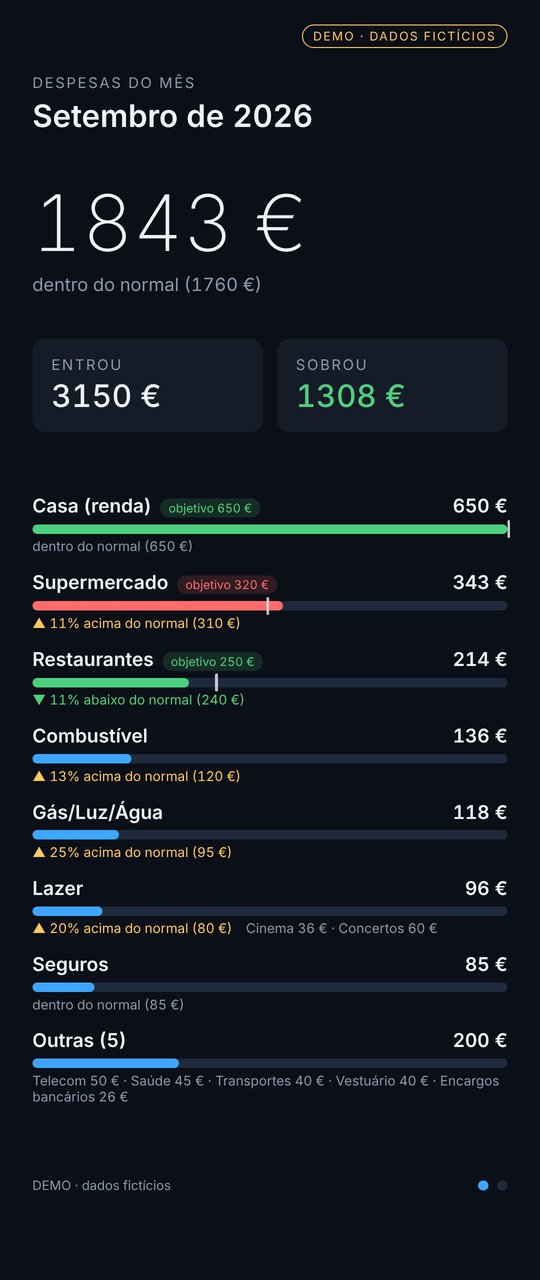
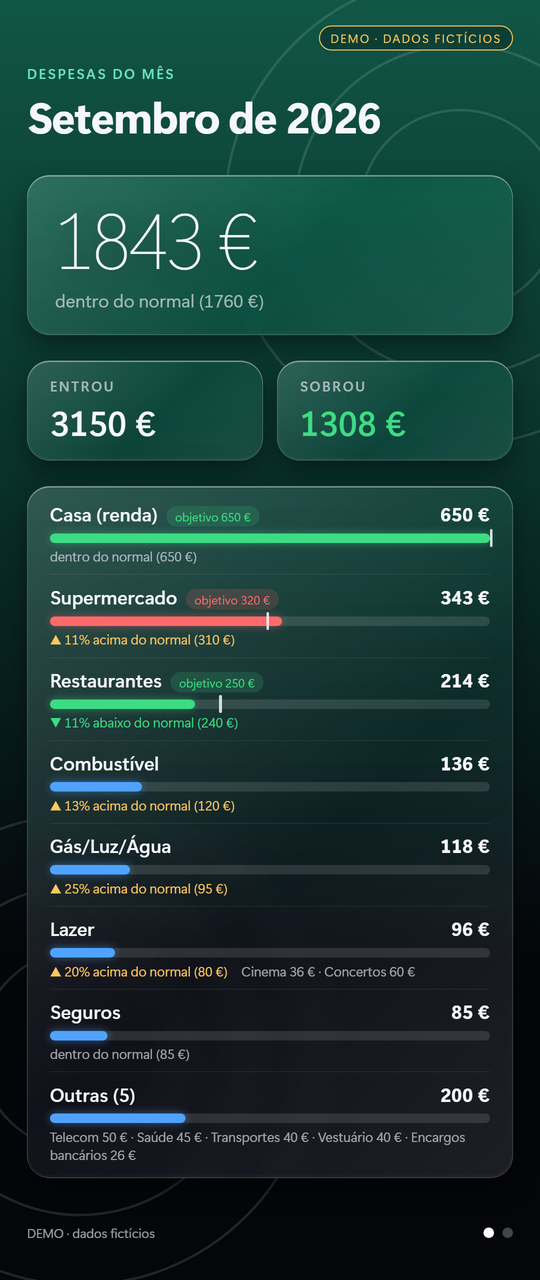
Despesas: aspeto Liquid Glass, como o desporto e o Início (captura da demo atualizada)

diff --git a/hub/web/apps/despesas.html b/hub/web/apps/despesas.html
@@ -4,75 +4,106 @@
 <meta charset="utf-8">
 <title>Despesas</title>
 <style>
-  :root { --fundo: #0b0f17; --painel: #151b27; --linha: #1f2a3d; --texto: #eef2f8; --suave: #8d98ab;
-          --barra: #3ea6ff; --verde: #4cd07d; --vermelho: #ff6b6b; --amarelo: #ffc75f; font-size: 1.6vw; }
+  /* Aspeto "Liquid Glass", o mesmo dos ecrãs do desporto e do Início: os mesmos tokens de vidro, fontes e fundo
+     (copiados do desporto/web/css/base.css). Fica tudo aqui, sem ir buscar ficheiros a outras apps (esta tem código). */
+  :root { --fundo: #05060a; --texto: #f5f7fb; --suave: rgba(235, 235, 245, .66); --linha: rgba(255, 255, 255, .14);
+          --accent: #2bd4a0; --tint: #0b3b33;
+          --barra: #4fa3ff; --verde: #3ddc84; --vermelho: #ff6b6b; --amarelo: #ffc75f;
+          --vidro: linear-gradient(135deg, rgba(255, 255, 255, .18), rgba(255, 255, 255, .05) 55%, rgba(255, 255, 255, .10));
+          --vidro-borda: rgba(255, 255, 255, .26);
+          --vidro-sombra: inset 0 2px 0 rgba(255, 255, 255, .45), inset 0 -2px 8px rgba(255, 255, 255, .06), 0 24px 50px rgba(0, 0, 0, .38);
+          --font: -apple-system, BlinkMacSystemFont, "SF Pro Display", "SF Pro Text", "Segoe UI Variable Display", "Segoe UI", Inter, Roboto, "Helvetica Neue", Arial, sans-serif;
+          font-size: 1.6vw; }
   * { box-sizing: border-box; }
-  html, body { margin: 0; height: 100%; background: var(--fundo); color: var(--texto); overflow: hidden;
-               font-family: "Segoe UI", system-ui, -apple-system, Roboto, sans-serif; font-variant-numeric: tabular-nums; }
-  .cena { position: fixed; inset: 0; padding: 6vh 6vw 9vh; display: none; flex-direction: column; }
-  .cena.ativa { display: flex; animation: entra .4s ease; }
+  html, body { margin: 0; height: 100%; color: var(--texto); overflow: hidden; cursor: none;
+               font-family: var(--font); font-variant-numeric: tabular-nums; }
+  body { background: var(--fundo); }
+  /* Fundo como no desporto: a cor da app no topo a desaparecer para baixo e anéis em traço fino (js/backgrounds.js) */
+  .fundo { position: fixed; inset: 0; width: 100%; height: 100%; z-index: -1; }
+  .vidro, .kpi, .obj, .cats, .grafico-caixa {
+    background: var(--vidro); border: 1.5px solid var(--vidro-borda); border-radius: 2.6rem; box-shadow: var(--vidro-sombra);
+    -webkit-backdrop-filter: blur(30px) saturate(170%); backdrop-filter: blur(30px) saturate(170%); }
+  .cena { position: fixed; inset: 0; padding: 5vh 5vw 8vh; display: none; flex-direction: column; }
+  .cena.ativa { display: flex; animation: entra .6s cubic-bezier(.2, .8, .2, 1); }
   @keyframes entra { from { opacity: 0; transform: translateY(1.5vh); } }
-  .rotulo { font-size: 1.7rem; color: var(--suave); text-transform: uppercase; letter-spacing: .12em; }
-  h1 { font-size: 3.6rem; font-weight: 600; margin: .6rem 0 0; }
+  .rotulo { font-size: 1.6rem; font-weight: 600; color: color-mix(in srgb, var(--accent) 70%, #fff); text-transform: uppercase; letter-spacing: .14em; }
+  h1 { font-size: 5rem; font-weight: 700; letter-spacing: -.12rem; margin: .5rem 0 0; }
 
   /* ---------- cena "o mês" */
-  .heroi { margin: 4vh 0 3.5vh; }
-  .heroi .valor { font-size: 9rem; font-weight: 250; line-height: 1; }
+  .heroi { margin: 2.4vh 0 2vh; padding: 2.6rem 3.2rem; }
+  .heroi .valor { font-size: 9rem; font-weight: 200; line-height: 1; letter-spacing: -.3rem; text-shadow: 0 .6rem 2.4rem rgba(0,0,0,.35); }
   .heroi .comp { font-size: 2.1rem; color: var(--suave); margin-top: 1.4rem; }
-  .kpis { display: grid; grid-template-columns: 1fr 1fr; gap: 1.6rem; margin-bottom: 5vh; }
-  .kpi { background: var(--painel); border-radius: 1.4rem; padding: 2rem 2.2rem; }
-  .kpi .n { font-size: 3.6rem; font-weight: 500; margin-top: .4rem; }
-  .cats { display: flex; flex-direction: column; gap: 1.9rem; }
+  .kpis { display: grid; grid-template-columns: 1fr 1fr; gap: 1.6rem; margin-bottom: 2vh; }
+  .kpi { padding: 1.8rem 2.6rem; }
+  .kpi .rotulo { color: var(--suave); }
+  .kpi .n { font-size: 4rem; font-weight: 600; margin-top: .4rem; }
+  .cats { display: flex; flex-direction: column; padding: .6rem 2.6rem; }
+  .cat { padding: 1.05rem 0; }
+  .cat + .cat { border-top: 1.5px solid rgba(255, 255, 255, .12); }
   .cat .topo { display: flex; align-items: baseline; gap: 1rem; font-size: 2.2rem; }
   .cat .nome { font-weight: 600; }
-  .cat .v { margin-left: auto; font-weight: 600; }
-  .cat .barra { position: relative; height: 1.1rem; background: var(--linha); border-radius: 1rem; margin: .8rem 0 .5rem; }
-  .cat .barra i { position: absolute; inset: 0 auto 0 0; border-radius: 1rem; background: var(--barra); }
-  .cat .barra i.dentro { background: var(--verde); }
-  .cat .barra i.acima { background: var(--vermelho); }
-  .cat .barra u { position: absolute; top: -.5rem; bottom: -.5rem; width: .3rem; background: var(--texto); border-radius: .2rem; opacity: .8; }
+  .cat .v { margin-left: auto; font-weight: 700; }
+  .cat .barra { position: relative; height: 1.1rem; background: rgba(255, 255, 255, .12); border-radius: 1rem; margin: .8rem 0 .5rem; }
+  .cat .barra i { position: absolute; inset: 0 auto 0 0; border-radius: 1rem; background: var(--barra); box-shadow: 0 0 1rem color-mix(in srgb, var(--barra) 50%, transparent); }
+  .cat .barra i.dentro { background: var(--verde); box-shadow: 0 0 1rem color-mix(in srgb, var(--verde) 45%, transparent); }
+  .cat .barra i.acima { background: var(--vermelho); box-shadow: 0 0 1rem color-mix(in srgb, var(--vermelho) 45%, transparent); }
+  .cat .barra u { position: absolute; top: -.5rem; bottom: -.5rem; width: .3rem; background: var(--texto); border-radius: .2rem; opacity: .85; }
   .cat .info { display: flex; gap: 1.6rem; font-size: 1.55rem; color: var(--suave); }
   .sobe { color: var(--amarelo); }
   .desce { color: var(--verde); }
   .pilula { font-size: 1.4rem; padding: .25rem 1rem; border-radius: 99rem; }
-  .pilula.dentro { background: rgba(76,208,125,.15); color: var(--verde); }
-  .pilula.acima { background: rgba(255,107,107,.15); color: var(--vermelho); }
+  .pilula.dentro { background: rgba(61, 220, 132, .16); color: var(--verde); }
+  .pilula.acima { background: rgba(255, 107, 107, .16); color: var(--vermelho); }
 
   /* ---------- cena "evolução" */
-  .grafico { display: flex; align-items: flex-end; gap: 1.6rem; height: 34vh; margin: 6vh 0 2vh;
-             border-bottom: .2rem solid var(--linha); }
+  .grafico-caixa { margin: 2.6vh 0 1vh; padding: 4.4rem 2.6rem 1.6rem; }
+  .grafico { display: flex; align-items: flex-end; gap: 1.6rem; height: 23vh; border-bottom: .2rem solid var(--linha); }
   .col { flex: 1; display: flex; flex-direction: column; align-items: center; justify-content: flex-end; height: 100%; gap: .8rem; }
   .col .par { display: flex; align-items: flex-end; gap: .6rem; height: 100%; width: 100%; justify-content: center; }
-  .col .b { width: 40%; border-radius: .8rem .8rem 0 0; background: var(--barra); position: relative; }
-  .col .b.e { background: #2b3b55; }
+  .col .b { width: 40%; border-radius: .9rem .9rem 0 0; background: linear-gradient(180deg, #7cc0ff, var(--barra)); position: relative;
+            box-shadow: inset 0 2px 0 rgba(255, 255, 255, .4); }
+  .col .b.e { background: rgba(255, 255, 255, .18); }
   .col .lbl { font-size: 1.4rem; color: var(--suave); position: absolute; top: -2.3rem; left: 50%; transform: translateX(-50%); white-space: nowrap; }
-  .meses { display: flex; gap: 1.6rem; }
+  .meses { display: flex; gap: 1.6rem; margin-top: 1.2rem; }
   .meses div { flex: 1; text-align: center; font-size: 1.9rem; color: var(--suave); }
-  .meses div.atual { color: var(--texto); font-weight: 600; }
-  .legenda { display: flex; gap: 3rem; font-size: 1.6rem; color: var(--suave); margin-top: 2.4rem; }
-  .legenda i { display: inline-block; width: 1.4rem; height: 1.4rem; border-radius: .3rem; margin-right: .7rem; vertical-align: -.1rem; }
-  h2 { font-size: 2.6rem; font-weight: 600; margin: 7vh 0 2.4rem; }
-  .obj { background: var(--painel); border-radius: 1.4rem; padding: 2rem 2.2rem; margin-bottom: 1.6rem; }
+  .meses div.atual { color: var(--texto); font-weight: 700; }
+  .legenda { display: flex; gap: 3rem; font-size: 1.6rem; color: var(--suave); margin-top: 1.6rem; }
+  .legenda i { display: inline-block; width: 1.4rem; height: 1.4rem; border-radius: .4rem; margin-right: .7rem; vertical-align: -.1rem; }
+  h2 { font-size: 2.2rem; font-weight: 600; letter-spacing: .12em; text-transform: uppercase; color: color-mix(in srgb, var(--accent) 70%, #fff); margin: 3.2vh 0 1.6rem .6rem; }
+  .obj { padding: 1.6rem 2.6rem; margin-bottom: 1.2rem; }
   .obj .topo { display: flex; justify-content: space-between; font-size: 2.2rem; font-weight: 600; }
-  .obj .barra { height: 1.2rem; background: var(--linha); border-radius: 1rem; margin: 1.2rem 0 .8rem; overflow: hidden; }
+  .obj .barra { height: 1.2rem; background: rgba(255, 255, 255, .12); border-radius: 1rem; margin: 1.2rem 0 .8rem; overflow: hidden; }
   .obj .barra i { display: block; height: 100%; border-radius: 1rem; }
   .obj .sub { font-size: 1.6rem; color: var(--suave); }
   .vazio { font-size: 1.9rem; color: var(--suave); }
 
-  .rodape { position: fixed; left: 6vw; right: 6vw; bottom: 3.5vh; display: flex; align-items: center; justify-content: space-between;
+  .rodape { position: fixed; left: 5vw; right: 5vw; bottom: 3vh; display: flex; align-items: center; justify-content: space-between;
             font-size: 1.5rem; color: var(--suave); }
   .pontos { display: flex; gap: 1rem; }
-  .pontos i { width: 1.2rem; height: 1.2rem; border-radius: 50%; background: var(--linha); }
-  .pontos i.ativa { background: var(--barra); }
+  .pontos i { width: 1.2rem; height: 1.2rem; border-radius: 50%; background: rgba(255, 255, 255, .25); }
+  .pontos i.ativa { background: #fff; }
   #pausa { display: none; }
   body.parado #pausa { display: inline; }
-  .aviso-cat { color: var(--amarelo); }
+  .aviso-cat { color: var(--amarelo); margin-top: 2.4vh; font-size: 1.9rem; }
   /* Modo demo: uma faixa que não deixa dúvidas de que os números são a fingir */
-  body.demo::before { content: "DEMO · DADOS FICTÍCIOS"; position: fixed; top: 2vh; right: 6vw; z-index: 2; font-size: 1.4rem;
-                      letter-spacing: .12em; color: var(--amarelo); border: .15rem solid var(--amarelo); border-radius: 99rem; padding: .4rem 1.2rem; }
+  body.demo::before { content: "DEMO · DADOS FICTÍCIOS"; position: fixed; top: 2vh; right: 5vw; z-index: 2; font-size: 1.4rem;
+                      letter-spacing: .12em; color: var(--amarelo); border: .15rem solid var(--amarelo); border-radius: 99rem; padding: .4rem 1.2rem;
+                      background: rgba(0, 0, 0, .25); -webkit-backdrop-filter: blur(10px); backdrop-filter: blur(10px); }
 </style>
 </head>
 <body>
+  <!-- Fundo (o mesmo desenho do desporto: fade na cor da app e anéis finos) -->
+  <svg class="fundo" viewBox="0 0 1080 2560" preserveAspectRatio="xMidYMid slice" aria-hidden="true">
+    <defs><linearGradient id="fade" x1="0" y1="0" x2="0" y2="1">
+      <stop offset="0" style="stop-color:color-mix(in srgb, var(--tint) 82%, var(--accent))"/>
+      <stop offset=".35" style="stop-color:var(--tint);stop-opacity:.85"/>
+      <stop offset=".75" style="stop-color:var(--tint);stop-opacity:0"/></linearGradient></defs>
+    <rect width="1080" height="2560" fill="#05060a"/><rect width="1080" height="2560" fill="url(#fade)"/>
+    <g fill="none" stroke="#fff" stroke-opacity=".12" stroke-width="5">
+      <circle cx="920" cy="420" r="200"/><circle cx="920" cy="420" r="330"/><circle cx="920" cy="420" r="470"/>
+      <circle cx="160" cy="2100" r="200"/><circle cx="160" cy="2100" r="330"/><circle cx="160" cy="2100" r="470"/>
+    </g>
+  </svg>
   <section class="cena" id="c-mes"></section>
   <section class="cena" id="c-evolucao"></section>
   <div class="rodape">
@@ -126,7 +157,7 @@ function cenaMes(d) {
   document.getElementById("c-mes").innerHTML = `
     <div class="rotulo">Despesas do mês</div>
     <h1>${nomeMes(d.mes)}</h1>
-    <div class="heroi"><div class="valor">${euro(d.saidas)}</div>
+    <div class="heroi vidro"><div class="valor">${euro(d.saidas)}</div>
       <div class="comp">${comparar(d.saidas, d.saidas_normal) || "gasto no mês"}</div></div>
     <div class="kpis">
       <div class="kpi"><div class="rotulo">Entrou</div><div class="n">${euro(d.entradas)}</div></div>
@@ -159,9 +190,9 @@ function cenaEvolucao(d) {
   document.getElementById("c-evolucao").innerHTML = `
     <div class="rotulo">Últimos meses</div>
     <h1>Gasto vs. entrado (€)</h1>
-    <div class="grafico">${cols}</div>
+    <div class="grafico-caixa"><div class="grafico">${cols}</div>
     <div class="meses">${meses}</div>
-    <div class="legenda"><span><i style="background:var(--barra)"></i>Gasto</span><span><i style="background:#2b3b55"></i>Entrou</span></div>
+    <div class="legenda"><span><i style="background:var(--barra)"></i>Gasto</span><span><i style="background:rgba(255,255,255,.3)"></i>Entrou</span></div></div>
     <h2>Objetivos</h2>${objs}
     ${d.por_categorizar ? `<h2 class="aviso-cat">${d.por_categorizar} movimento(s) por categorizar</h2>` : ""}`;
 }
@@ -203,7 +234,7 @@ fetch(DEMO ? "despesas-demo.json" : "/dados/despesas.json", { cache: "no-store" 
     cenaMes(d);
     cenaEvolucao(d);
     document.getElementById("fonte").textContent = DEMO ? "DEMO · dados fictícios" : `Último extracto: ${nomeMes(d.mes)}`;
-    mostrar(0);
+    mostrar((Number(new URLSearchParams(location.search).get("cena")) || 1) - 1);   // ?cena=2: começa no 2.º ecrã (capturas)
   })
   .catch(() => {
     cenas[0].innerHTML = `<div class="rotulo">Despesas</div><h1>Sem dados</h1>
